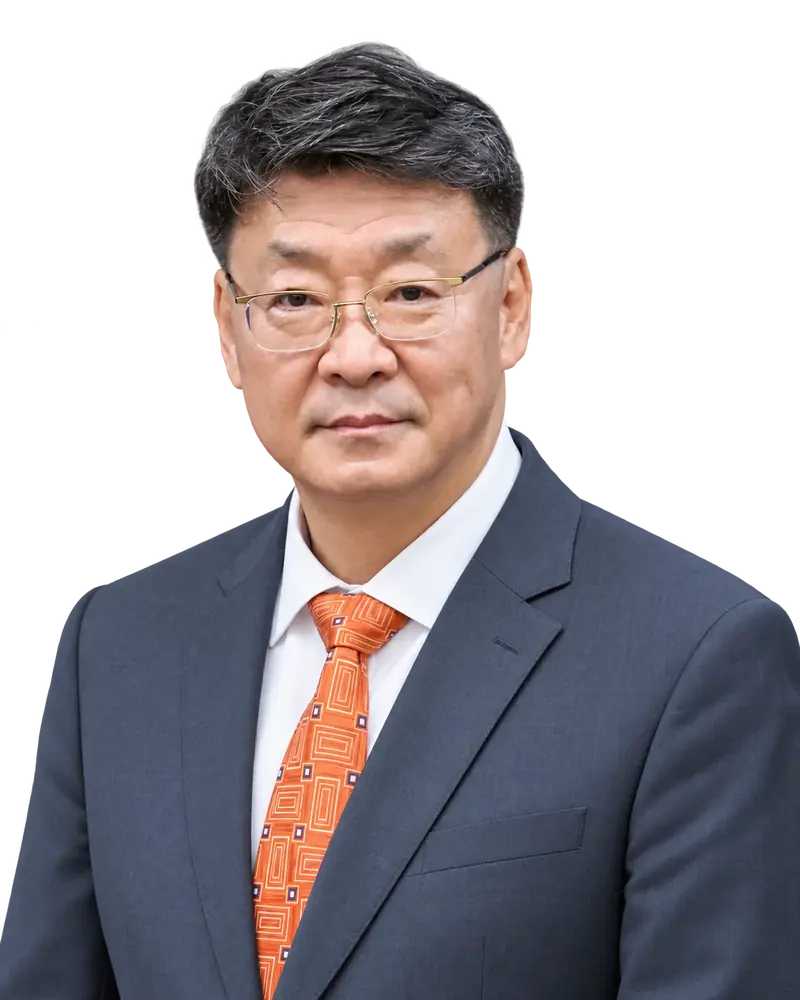
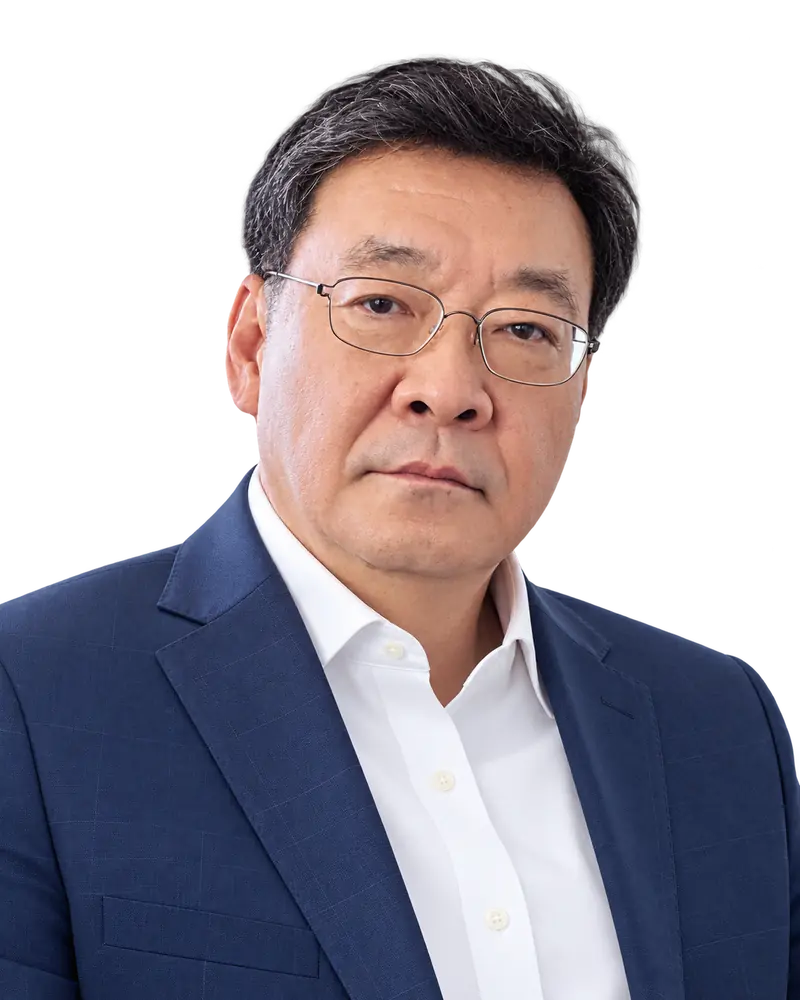
CEO 인사말: 대표이사 사진 재교체 [skip ci]
Claude-Session: https://claude.ai/code/session_01H7QVW4UfNoytxJnjhnaS37

diff --git a/ko/about/ceo/index.html b/ko/about/ceo/index.html
@@ -74,7 +74,7 @@
 <section class="sec"><div class="wrap ceo">
   <div class="ceo-head rv">
     <h2>고객의 신뢰를 바탕으로<br>부동산의 새로운 가치를 만들어 갑니다.</h2>
-    <figure class="ceo-photo"><img src="/dbworld/assets/img/photos/ceo.webp?v=e6ce80eb" width="800" height="1000" alt="DB월드 대표이사 윤순균"></figure>
+    <figure class="ceo-photo"><img src="/dbworld/assets/img/photos/ceo.webp?v=a411e534" width="800" height="1000" alt="DB월드 대표이사 윤순균"></figure>
   </div>
   <div class="ceo-body">
     <p class="rv">안녕하십니까? DB월드 대표이사 윤순균입니다.</p><p class="rv">DB월드 홈페이지를 찾아주신 여러분께 진심으로 감사드립니다.</p><p class="rv">DB월드는 1969년 미륭건설에서 출발해 동부건설, DB inc 부동산 부문으로 이어져 온 부동산 전문 기업으로 DB그룹의 종합부동산서비스 기업입니다.</p><p class="rv">저희는 언제나 하나의 질문에서 시작합니다.<br>이 땅에, 이 공간에 가장 필요한 것이 무엇인가?<br>그 답을 찾기 위해 반세기 이상 부동산 개발, 자산관리(PM), 건설사업관리(CM), 데이터 센터 개발 등 컨설팅 사업에서 골프장 운영까지 부동산의 가치 창출을 위한 역량을 차근차근 갖추어 왔습니다.</p><p class="rv">Project를 기획하고, 건설하고, 운영에 이르기까지 전 과정을 한 회사가 책임질 수 있는 것은 오랜 시간 현장에서 쌓아온 기술력과 경험, 그리고 고객의 신뢰가 가장 큰 자산입니다.</p><p class="rv">부동산은 단순한 건축물이 아니라 사람과 도시의 삶을 담아내는 그릇입니다.<br>잘 지어진 공간 하나가 머무는 사람의 하루를 바꾸고 <br class="ceo-lb">그 공간 하나가 지역의 내일을 풍요롭게 한다 믿습니다.<br>DB월드가 짓는 것은 건물이 아니라 사람의 마음을 이어주는 특별한 공간입니다.</p><p class="rv">고객이 믿고 맡겨주신 자산을 투명하게 관리하고 <br class="ceo-lb">가치를 키워나가는 일을 가장 큰 사명으로 여기고 <br class="ceo-lb">사업 시작부터 마무리까지 한결같은 기준과 진실된 마음으로 임하겠습니다.</p><p class="rv">DB그룹의 일원으로 그 이름에 맞게 무거운 책임감과 투명한 경영철학으로 지역사회와 함께 성장하는 기업이 되겠습니다.</p><p class="rv">앞으로도 변함없는 사랑과 무한한 성원을 부탁드립니다. 감사합니다.</p>

diff --git a/en/about/ceo/index.html b/en/about/ceo/index.html
@@ -74,7 +74,7 @@
 <section class="sec"><div class="wrap ceo">
   <div class="ceo-head rv">
     <h2>Building new value in real estate on a foundation of trust.</h2>
-    <figure class="ceo-photo"><img src="/dbworld/assets/img/photos/ceo.webp?v=e6ce80eb" width="800" height="1000" alt="CEO, DB World YoonSoon-kyun"></figure>
+    <figure class="ceo-photo"><img src="/dbworld/assets/img/photos/ceo.webp?v=a411e534" width="800" height="1000" alt="CEO, DB World YoonSoon-kyun"></figure>
   </div>
   <div class="ceo-body">
     <p class="rv">Hello. I am Yoon Soon-kyun, CEO of DB World.</p><p class="rv">Thank you sincerely for visiting the DB World website.</p><p class="rv">DB World is a real estate specialist that began as Miryung Construction in 1969 and continued through Dongbu Corporation and the real estate division of DB Inc., and it is the total real estate service company of DB Group.</p><p class="rv">We always begin with a single question.<br>What does this land, this space, need most?<br>To find the answer, over more than half a century we have steadily built the capabilities to create value in real estate, from real estate development, property management (PM), construction management (CM), data center development and consulting to golf course operation.</p><p class="rv">What allows one company to take responsibility for the entire process of a project, from planning and construction through to operation, is our greatest asset: the technical expertise and experience built on site over many years, and the trust of our clients.</p><p class="rv">Real estate is not simply a building; it is a vessel that holds the lives of people and cities.<br>We believe that a single well-built space can change the day of those who spend time in it, and that one space can enrich the future of its community.<br>What DB World builds is not a building, but a special space that connects people’s hearts.</p><p class="rv">We regard managing the assets our clients entrust to us with transparency and growing their value as our greatest mission, and we will approach every project, from start to finish, with consistent standards and sincerity.</p><p class="rv">As a member of DB Group, we will live up to its name with a deep sense of responsibility and a transparent management philosophy, and grow together with local communities.</p><p class="rv">We ask for your continued support and encouragement. Thank you.</p>
